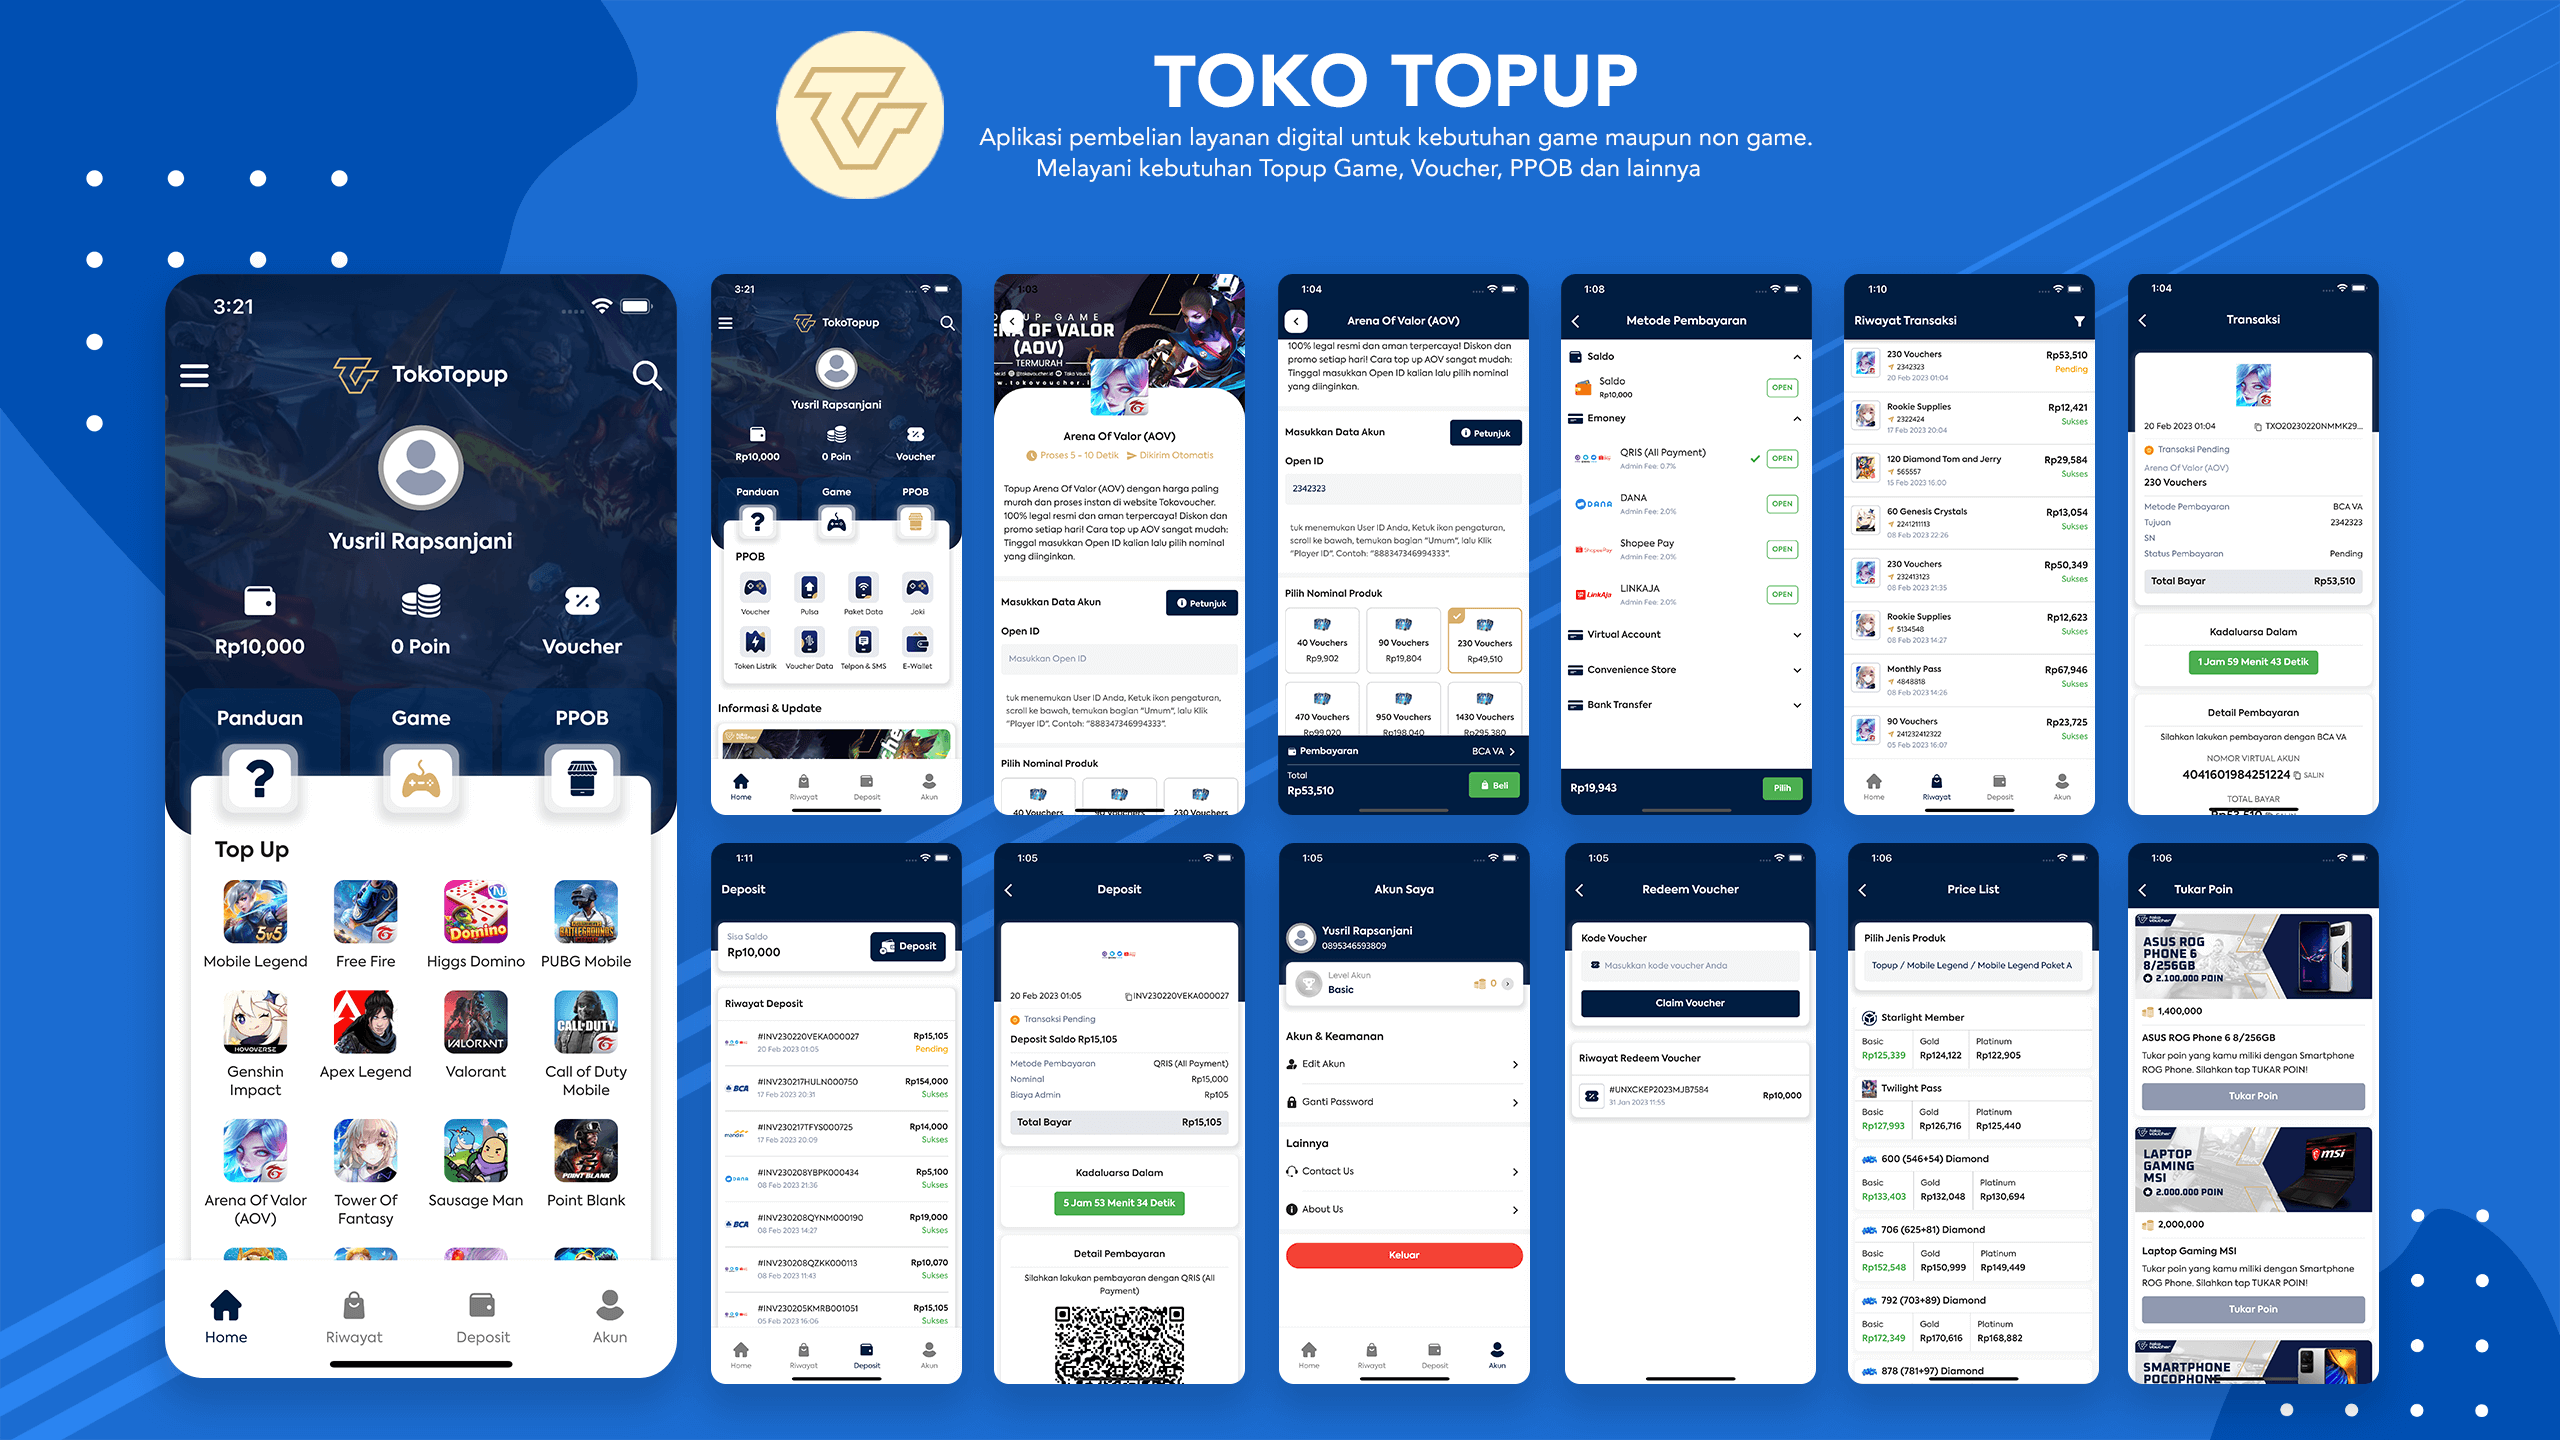
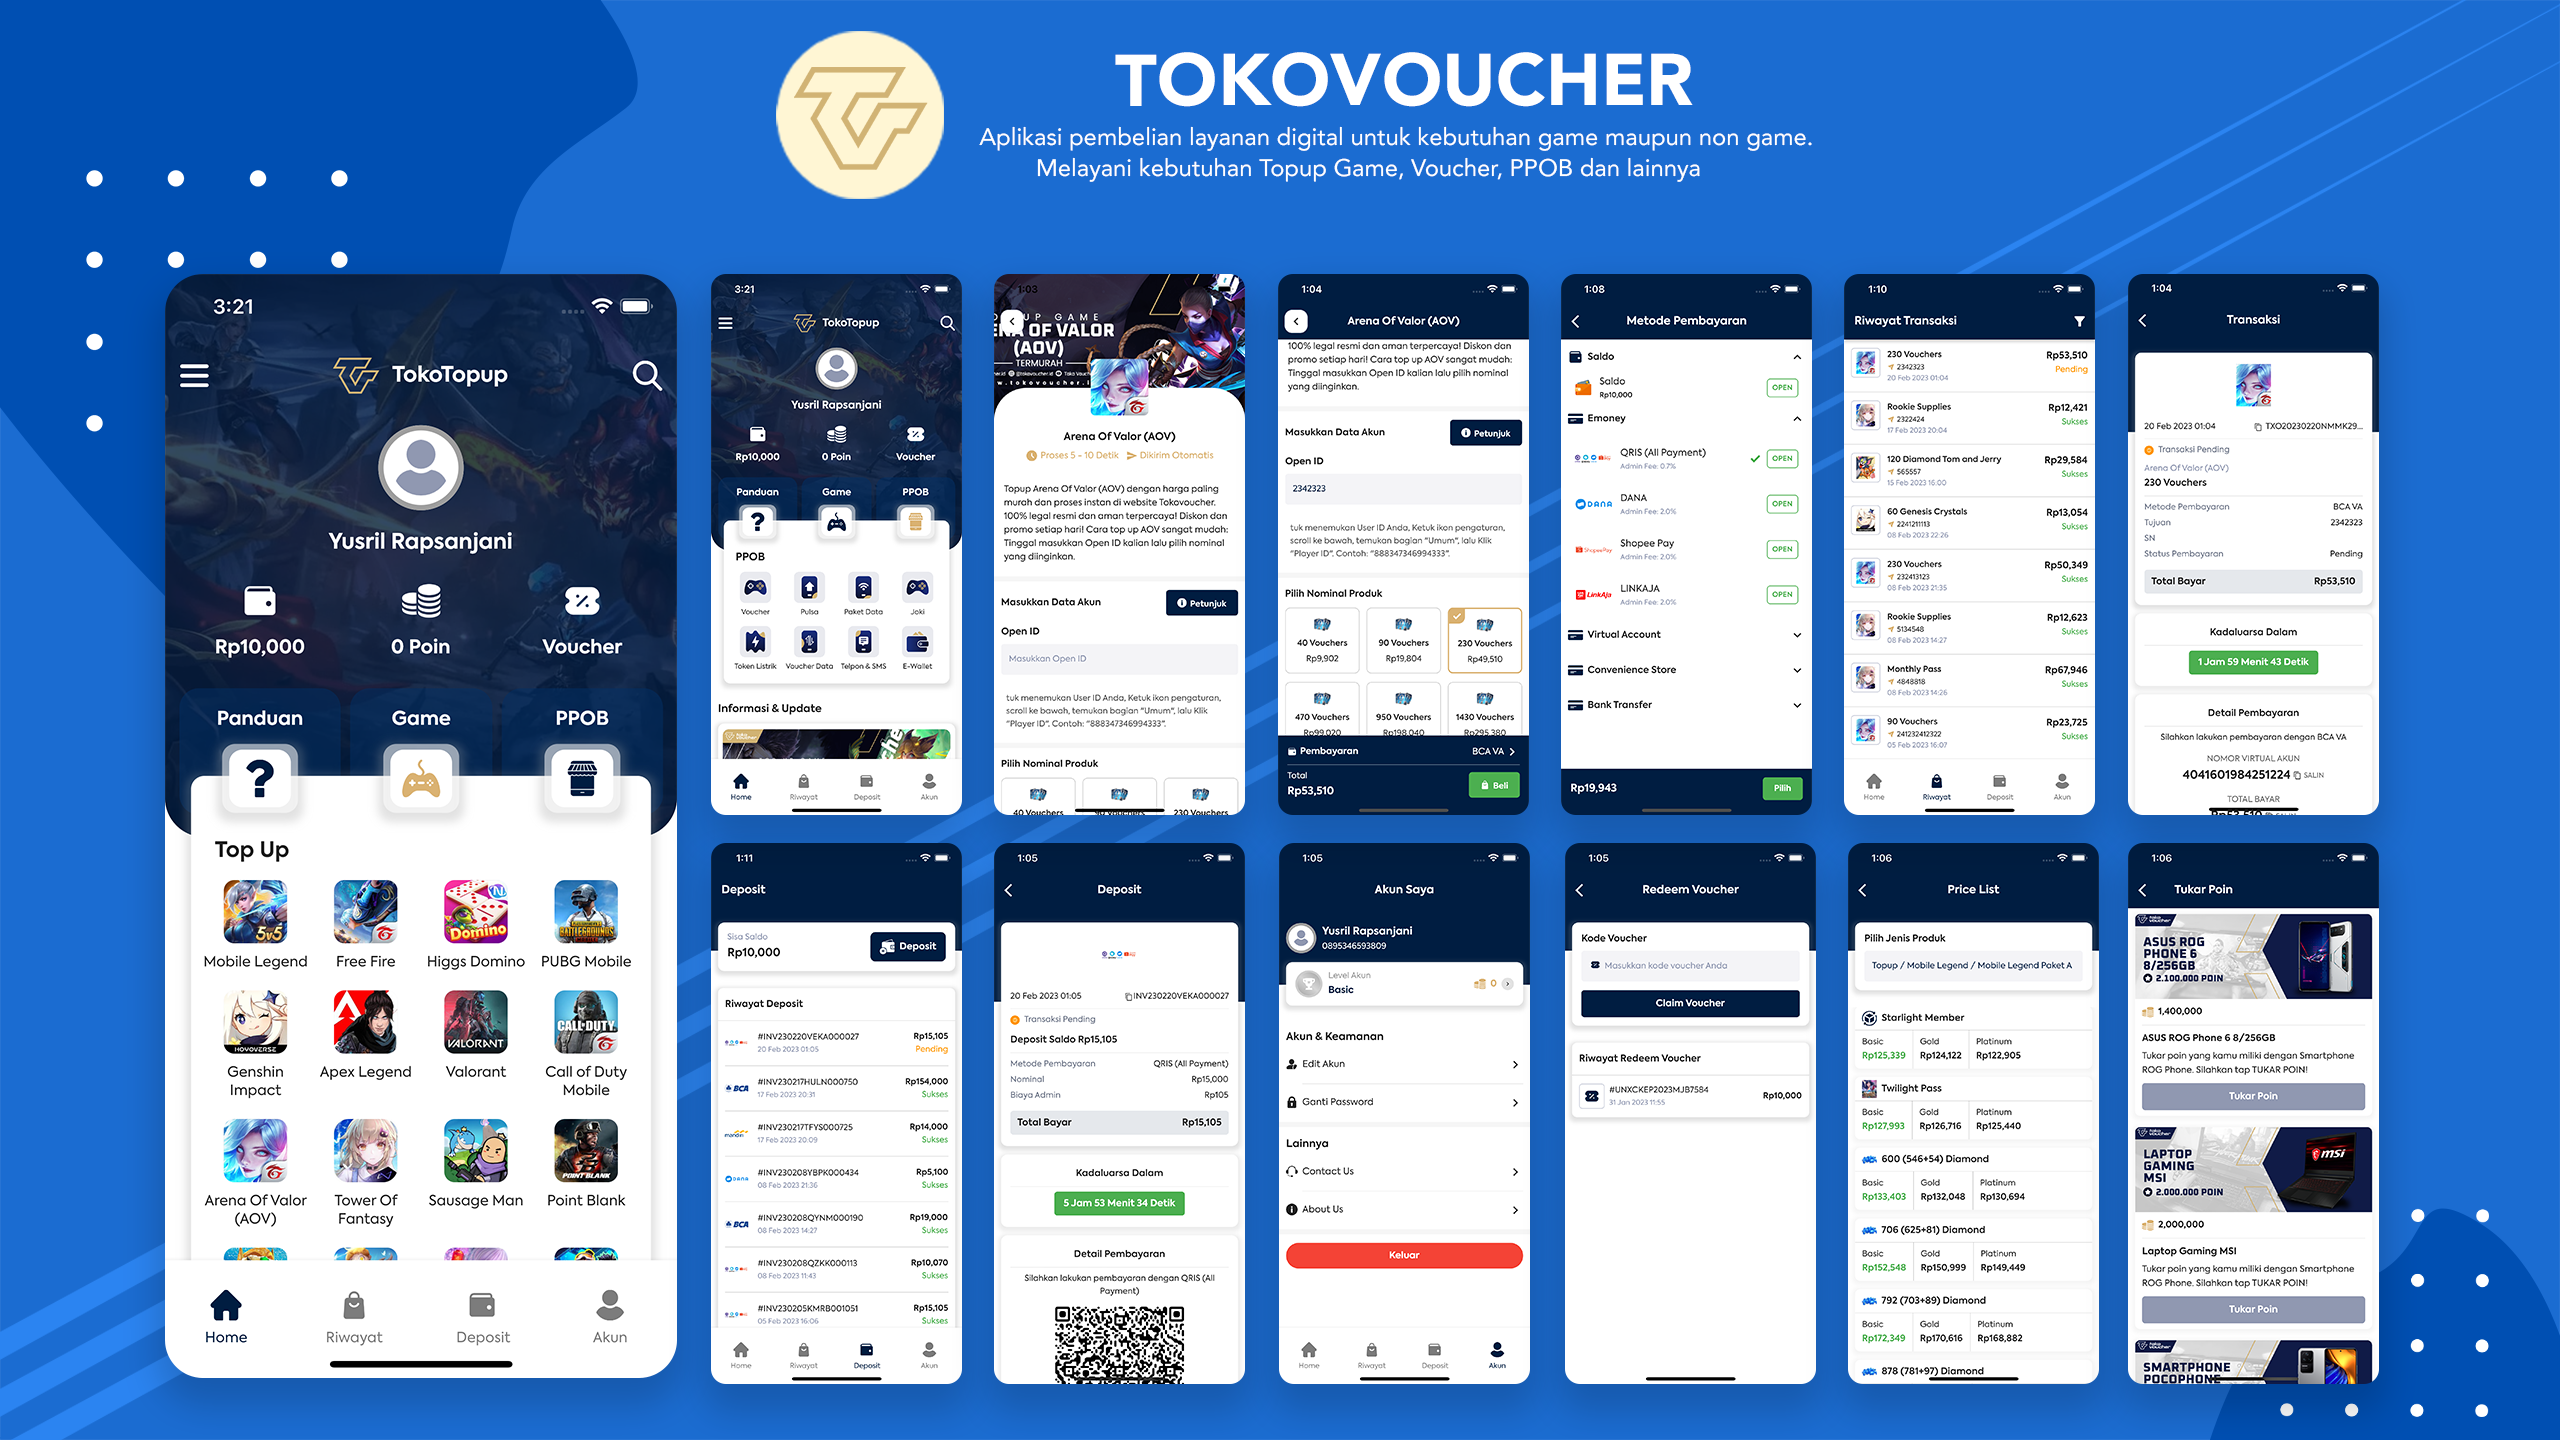
Chore: Update portfolio

Changed region(s): [[0.4375, 0.0312, 0.6562, 0.0938], [0.1562, 0.625, 0.1875, 0.6562]]

diff --git a/project-16-details.html b/project-16-details.html
@@ -40,7 +40,7 @@
         <div class="row">
 
           <div class="col-lg-8">
-            <h2 class="portfolio-title">TokoTopup</h2>
+            <h2 class="portfolio-title">TokoVoucher</h2>
 
             <div class="portfolio-details-slider swiper">
               <div class="swiper-wrapper align-items-center">
@@ -71,7 +71,7 @@
               <li><strong>Project URL</strong>: <a href="https://play.google.com/store/apps/details?id=id.tokovoucher.app" target="_blank">PlayStore</a></li>
             </ul>
             <p>
-              TokoTopup adalah aplikasi layanan pembelian digital untuk kebutuhan game maupun non game. Melayani kebutuhan Topup Game, Voucher, PPOB dan lainnya.
+              TokoVoucher adalah aplikasi layanan pembelian digital untuk kebutuhan game maupun non game. Melayani kebutuhan Topup Game, Voucher, PPOB dan lainnya.
             </p>
             <p>
               Adapun beberapa fitur lainnya adalah:

diff --git a/index.html b/index.html
@@ -556,10 +556,10 @@
           <div class="portfolio-wrap">
             <img src="assets/img/portfolio/project-16.png" class="img-fluid" alt="">
             <div class="portfolio-info">
-              <h4>TokoTopup</h4>
+              <h4>TokoVoucher</h4>
               <p>Mobile Apps</p>
               <div class="portfolio-links">
-                <a href="assets/img/portfolio/project-16.png" data-gallery="portfolioGallery" class="portfolio-lightbox" title="TokoTopup"><i class="bx bx-zoom-in"></i></a>
+                <a href="assets/img/portfolio/project-16.png" data-gallery="portfolioGallery" class="portfolio-lightbox" title="TokoVoucher"><i class="bx bx-zoom-in"></i></a>
                 <a href="project-16-details.html" data-gallery="portfolioDetailsGallery" data-glightbox="type: external" class="portfolio-details-lightbox" title="Portfolio Details"><i class="bx bx-link"></i></a>
               </div>
             </div>
